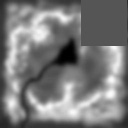
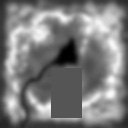
bird catch egg speed needs refactor

Changed region(s): [[0.625, 0.0, 1.0, 0.375], [0.375, 0.5312, 0.6562, 0.9375], [0.625, 0.0, 0.6562, 0.0312]]

diff --git a/project/MyScene.js b/project/MyScene.js
@@ -2,12 +2,10 @@
 import { CGFscene, CGFcamera, CGFaxis, CGFappearance, CGFshader, CGFtexture } from "../lib/CGF.js";
 import { MyPanorama } from "./MyPanorama.js";
 import { MyPlane } from "./MyPlane.js";
-import { MySphere } from "./MySphere.js";
 import { MyBird, BirdStates } from "./MyBird.js";
 import { MyTerrain } from "./MyTerrain.js";
 import { EggStates, MyBirdEgg } from "./MyBirdEgg.js";
 import { MyNest } from "./MyNest.js";
-import { MyBillboard } from "./MyBillboard.js";
 import { MyTreeGroupPatch } from "./MyTreeGroupPatch.js";
 import { MyTreeRowPatch } from "./MyTreeRowPatch.js";
 
@@ -42,6 +40,13 @@ export class MyScene extends CGFscene {
   init(application) {
     super.init(application);
     this.cameraPosition = new vec3.fromValues(50,10,15);
+    this.nestPosition = [30, -22, 30];
+
+    this.eggpositions = [];
+    this.generateEggPositions();
+    this.MyTreeGroupPatchPosition = [35, -18, 50];
+    this.MyTreeRowPatchPosition = [10, -18, 50];
+    
 
     //Background color
     this.gl.clearColor(0.0, 0.0, 0.0, 1.0);
@@ -62,16 +67,11 @@ export class MyScene extends CGFscene {
     this.initCameras();
     this.initLights();
     this.terrain = new MyTerrain(this);
-    this.egg1 = new MyBirdEgg(this, 100, -20, -100);
-    this.egg2 = new MyBirdEgg(this,100, -20, -125);
-    this.egg3 = new MyBirdEgg(this,125, -20, -100);
-    this.egg4 = new MyBirdEgg(this,125, -20, -125);
-    this.egg5 = new MyBirdEgg(this,112.5, -20, -112.5);
-    this.eggs = [this.egg1, this.egg2, this.egg3, this.egg4];
-    this.nest = new MyNest(this, 100, -22, -140);
-    this.billboard = new MyBillboard(this, 0, 0, 0);
-    this.MyTreeGroupPatch = new MyTreeGroupPatch(this, 0, 0, 0);
-    this.MyTreeRowPatch = new MyTreeRowPatch(this, 0, 0, 0);
+    this.eggs =[];
+    this.generateEggs();
+    this.nest = new MyNest(this, this.nestPosition[0], this.nestPosition[1], this.nestPosition[2]);
+    this.MyTreeGroupPatch = new MyTreeGroupPatch(this, this.MyTreeGroupPatchPosition[0], this.MyTreeGroupPatchPosition[1], this.MyTreeGroupPatchPosition[2]);
+    this.MyTreeRowPatch = new MyTreeRowPatch(this, this.MyTreeRowPatchPosition[0], this.MyTreeRowPatchPosition[1], this.MyTreeRowPatchPosition[2]);
 
     //Objects connected to MyInterface
     this.displayAxis = true;
@@ -81,8 +81,7 @@ export class MyScene extends CGFscene {
     this.displayTerrain = true;
     this.displayEggs = true;
     this.displayNest = true;
-    this.displayBillboard = false;
-    this.displayTreeGroupPatch = false;
+    this.displayTreeGroupPatch = true;
     this.displayTreeRowPatch = true;
 
     // Factors
@@ -150,12 +149,11 @@ export class MyScene extends CGFscene {
     if (this.gui.isKeyPressed("KeyR")) {
         this.bird.reset();
         // clear all eggs
-        this.egg1 = new MyBirdEgg(this, 100, -20, -100);
-        this.egg2 = new MyBirdEgg(this,100, -20, -125);
-        this.egg3 = new MyBirdEgg(this,125, -20, -100);
-        this.egg4 = new MyBirdEgg(this,125, -20, -125);
-        this.egg5 = new MyBirdEgg(this,0, 0, 0);
-        this.eggs = [this.egg1, this.egg2, this.egg3, this.egg4, this.egg5];
+        this.egg1 = new MyBirdEgg(this, 1, 10, 10);
+        this.egg2 = new MyBirdEgg(this, 1, 10, 10);
+        this.egg3 = new MyBirdEgg(this, 1, 10, 10);
+        this.egg4 = new MyBirdEgg(this, 1, 10, 10);
+        this.eggs = [this.egg1, this.egg2, this.egg3, this.egg4];
         
         this.nest.eggs = [];
     }
@@ -167,6 +165,7 @@ export class MyScene extends CGFscene {
         if (Math.abs(this.bird.position.x - egg.position.x) < 5 && Math.abs(this.bird.position.z - egg.position.z) < 5) {
           this.eggToCatch = egg;
           this.bird.setBirdState(BirdStates.CATCHING);
+          //alert("you can catch!");
         }
       });
     }
@@ -175,7 +174,7 @@ export class MyScene extends CGFscene {
 
       // checks if the bird is near the nest
       if (Math.abs(this.bird.position.x - this.nest.position.x) < 5 && Math.abs(this.bird.position.z - this.nest.position.z) < 5) {
-        let egg = new MyBirdEgg(this, this.bird.position.x, this.bird.position.y - 2, this.bird.position.z, this.bird.angleY, EggStates.FALLING);
+        let egg = new MyBirdEgg(this, 1, 10, 10, this.bird.position.x, this.bird.position.y - 2, this.bird.position.z, this.bird.angleY, EggStates.FALLING);
         this.bird.egg = null;
         this.nest.addEgg(egg);
       }
@@ -248,7 +247,6 @@ export class MyScene extends CGFscene {
 
     // Draw Terrain
     if (this.displayTerrain) {
-      this.setActiveShader(this.defaultShader);
       this.terrain.display();
     }
 
@@ -266,23 +264,12 @@ export class MyScene extends CGFscene {
       this.nest.display_nest();
     }
 
-    // Draw billboard
-    if (this.displayBillboard) {
-      this.setActiveShader(this.defaultShader);
-      this.billboard.display();
-    }
-
-    if (this.displayTreeGroup) {
-      this.setActiveShader(this.defaultShader);
+    if (this.displayTreeGroupPatch) {
       this.MyTreeGroupPatch.display();
     }
 
     if (this.displayTreeRowPatch) {
-      this.setActiveShader(this.defaultShader);
-      this.pushMatrix();
-      this.scale(5,10,5);
       this.MyTreeRowPatch.display();
-      this.popMatrix();
     }
   }
 
@@ -332,8 +319,76 @@ export class MyScene extends CGFscene {
     // update scale factor
 		this.onScaleFactorChanged(this.scaleFactor);
     this.nest.updateEggs();
-    this.billboard.update(t);
     this.MyTreeGroupPatch.update(t);
     this.MyTreeRowPatch.update(t);
 	}
+
+  generateEggPositions(){
+    // x -5 a 50, y = -22, z a 30 a 150
+    let xmin = -5;
+    let xmax = 50;
+    let zmin = 30;
+    let zmax = 150;
+    
+    for (let i = 0; i < 5; i++) {
+      let xrand, zrand, isUnique;
+    
+      do {
+        xrand = Math.random() * (xmax - xmin) + xmin;
+        zrand = Math.random() * (zmax - zmin) + zmin;
+    
+        // Check uniqueness
+        isUnique = true;
+        for (let j = 0; j < this.eggpositions.length; j++) {
+          if (
+            this.eggpositions[j][0] === xrand &&
+            this.eggpositions[j][2] === zrand
+          ) {
+            isUnique = false;
+            break;
+          }
+        }
+      } while (!isUnique);
+    
+      this.eggpositions.push([xrand, -22, zrand]);
+    }
+  }
+
+  generateEggs(){
+    this.eggpositions.forEach(position => {
+      let egg = new MyBirdEgg(this, 1, 10, 10, position[0], position[1], position[2]);
+      this.eggs.push(egg);
+    });
+  }
+
+  generateNestPosition(){
+    // x -5 a 50, y = -22, z a 30 a 150
+    let xmin = -5;
+    let xmax = 50;
+    let zmin = 30;
+    let zmax = 150;
+    
+    // check if nest is in egg positions
+    let isUnique;
+    do {
+      let xrand = Math.random() * (xmax - xmin) + xmin;
+      let zrand = Math.random() * (zmax - zmin) + zmin;
+
+      this.nestPosition = [xrand, -22, zrand];
+
+      // Check uniqueness
+      isUnique = true;
+      for (let j = 0; j < this.eggpositions.length; j++) {
+        if (
+          this.eggpositions[j][0] === xrand &&
+          this.eggpositions[j][2] === zrand &&
+          xrand === this.nestPosition[0] &&
+          zrand === this.nestPosition[2]
+        ) {
+          isUnique = false;
+          break;
+        }
+      }
+    } while (!isUnique);
+  }
 }

diff --git a/project/MyBirdEgg.js b/project/MyBirdEgg.js
@@ -1,4 +1,4 @@
-import { CGFobject } from '../lib/CGF.js';
+import { CGFobject, CGFappearance } from '../lib/CGF.js';
 
 export const EggStates = {
     IN_NEST: 0,
@@ -16,12 +16,24 @@ export const EggStates = {
  * @param slices - number of divisions around the Y axis (longitude)
  */
 export class MyBirdEgg extends CGFobject {
-    constructor(scene, radius, stacks, slices) {
+    constructor(scene, radius, stacks, slices, x=0, y=0, z=0, angleY=0, eggState = EggStates.ON_GROUND) {
         super(scene);
         this.radius = radius;
         this.stacks = stacks;
         this.slices = slices;
         this.initBuffers();
+
+        this.position = {x: x, y: y, z: z};
+        this.angleY = angleY;
+        this.eggState = eggState;
+
+        this.eggtexture = new CGFappearance(this.scene);
+        this.eggtexture.setAmbient(0.1, 0.1, 0.1, 1);
+        this.eggtexture.setDiffuse(0.9, 0.9, 0.9, 1);
+        this.eggtexture.setSpecular(0.1, 0.1, 0.1, 1);
+        this.eggtexture.setShininess(10.0);
+
+        this.eggtexture.loadTexture('images/egg.jpg');
     }
 
     initBuffers() {
@@ -54,9 +66,17 @@ export class MyBirdEgg extends CGFobject {
             y = cosPhi;
             z = sinTheta * sinPhi;
 
-            // maybe scaling(radius) would ve been good idea?
-            this.vertices.push(this.radius * x, this.radius * y, this.radius * z);
+            // scale the coordinates to create an egg shape
+            x *= this.radius;
+            if (y >= 0) {
+                y *= this.radius * 1.5; // elongate along the Y-axis to form an oval top
+            } else {
+                y *= this.radius; // keep the bottom hemisphere spherical
+            }
+            z *= this.radius;
 
+            this.vertices.push(x, y, z);
+            
             // texCoords
             texS = j / this.slices;
             texT = i / this.stacks;
@@ -104,4 +124,13 @@ export class MyBirdEgg extends CGFobject {
 		this.indices=this.indicesLines;
 		this.primitiveType=this.scene.gl.LINES;
 	};
+
+    display() {
+        this.eggtexture.apply();
+        this.scene.pushMatrix();
+        this.scene.translate(this.position.x, this.position.y, this.position.z);
+        this.scene.rotate(this.angleY, 0, 1, 0);
+        super.display();
+        this.scene.popMatrix();
+    }
 }

diff --git a/project/MyTreeRowPatch.js b/project/MyTreeRowPatch.js
@@ -28,8 +28,8 @@ export class MyTreeRowPatch extends CGFobject{
         //console.log(gridPositions);
         // random number of trees
         for (let i = 0; i < 6 ; i++){
-            const max = 2;
-            const min = -2;
+            const max = 3;
+            const min = -3;
             let x_randomFloat = Math.random() * (max - min) + min;
             let z_randomFloat = Math.random() * (max - min) + min;
             this.trees.push(

diff --git a/project/MyBillboard.js b/project/MyBillboard.js
@@ -34,7 +34,7 @@ export class MyBillboard extends CGFobject {
         this.treeTexture.bind(0);
 
         this.scene.translate(this.position.x, this.position.y, this.position.z);
-
+        this.scene.scale(5,10,5);
         // camera position
         let cp = vec3.fromValues(this.scene.camera.position[0], 0, this.scene.camera.position[2]);
         // object position

diff --git a/project/MyBird.js b/project/MyBird.js
@@ -173,7 +173,7 @@ export class MyBird extends CGFobject {
                 break;
 
             case BirdStates.CATCHING:
-                this.position.y -= deltaTime / 1000;
+                this.position.y -= deltaTime / 1000 * 2;
 
                 if(eggToCatch.position.y + 2  >= this.position.y){
                     this.egg = eggToCatch;
